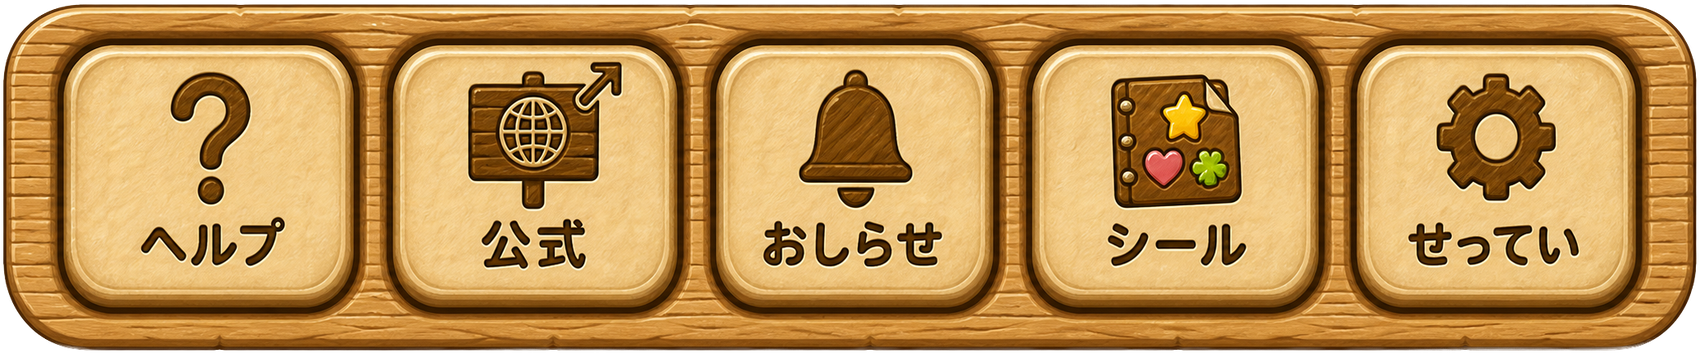
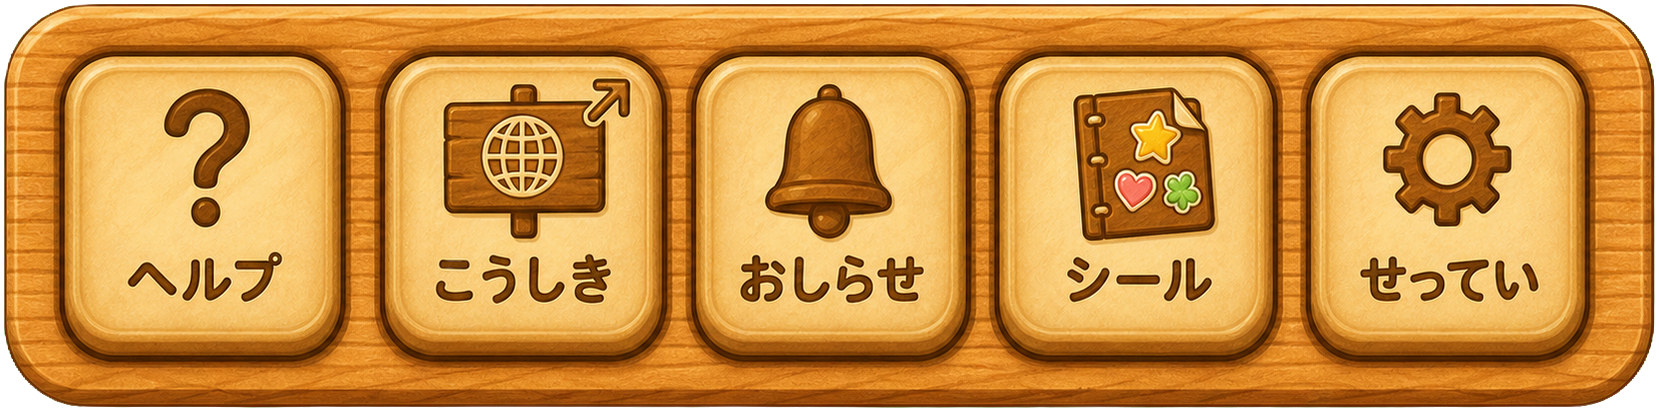
Apply official bottom nav alpha sprites

diff --git a/play.html b/play.html
@@ -811,7 +811,7 @@
        stay independent while the visuals read as one grouped control. */
     .bottom-nav {
       --nav-sprite-w: 520px;
-      --nav-sprite-h: calc(var(--nav-sprite-w) * 355 / 1700);
+      --nav-sprite-h: calc(var(--nav-sprite-w) * 412 / 1659);
       position: absolute;
       bottom: 18px;
       /* Offset by the canvas→safe-area gutter so the cluster sits inside
@@ -3043,7 +3043,7 @@
     // sw.js の CACHE_VERSION と揃える。Date.now() ベースだと iOS Safari で HTTP キャッシュが
     // 機能しなくなる (毎回 URL が変わる) ので、static な version を使う。デプロイ時に
     // CACHE_VERSION をバンプすれば自動でバスター値も変わり、SW 更新と同期する。
-    const PAGE_CACHE_VERSION = 1230;
+    const PAGE_CACHE_VERSION = 1231;
     const __bust = (url) => __isPreview ? `${url}${url.includes('?') ? '&' : '?'}_=v${PAGE_CACHE_VERSION}` : url;
 
     // Infinite-scroll loop: render the catalog 3× and silently teleport

diff --git a/sw.js b/sw.js
@@ -1,6 +1,7 @@
 // Service Worker for ポノのあそびば PWA
 // Network-first + version-based cache busting
 
+// v1231: Bottom nav uses the user-cleaned GPT Image 2 official-site alpha sprites and updated aspect ratio.
 // v1230: Daily gacha adds bubbles_v1 to the capsule opening moment.
 // v1229: Bottom nav swaps the top button to an official-site button using user-cleaned alpha sprites.
 // v1228: Daily gacha hides the close X, moves reveal actions to the top right, and opens the tray landing mask.
@@ -23,7 +24,7 @@
 // v1211: Daily gacha lever tuning synced to develop: smaller centered lever, four hard notched turns, staged zoom, boom/drop, and random split-capsule variants.
 
 // v1210: play.html にアプリ版限定のデイリーシールガチャを同期。APP_BUILD/開発モード時だけ表示し、レバー操作からシール付与まで行う。assets/ui/gacha/ に alpha 済み素材を追加。
-const CACHE_VERSION = 1230; // v1230: Daily gacha adds bubbles_v1 to the capsule opening moment.
+const CACHE_VERSION = 1231; // v1231: Bottom nav uses the user-cleaned GPT Image 2 official-site alpha sprites and updated aspect ratio.
 const CACHE_NAME = 'pono-v' + CACHE_VERSION;
 
 self.addEventListener('install', event => {

diff --git a/HANDOFF.md b/HANDOFF.md
@@ -17,6 +17,7 @@
 
 ## Active (進行中 / 未着手)
 
+- 2026-06-21 - [batch:768-bottom-nav-official-alpha-v2] DONE - Codex: user が `D:\ポノのおへや\UI` に入れた alpha 済み下ナビ候補4枚を確認し、公式アイコンの矢印が看板右上にある v2 系 `レイヤー 0_20260621-231532_001.png` を normal、`レイヤー 0_20260621-231430_001.png` を pressed として採用。`assets/ui/bottom_nav_group_5_normal.png` / `bottom_nav_group_5_pressed.png` は共通 `1659x412` RGBA に正規化し、`.bottom-nav` の高さ比率を `412/1659` に更新。`sw.js` / `PAGE_CACHE_VERSION=1231`。次回生成は、素材が明るすぎない限り chroma-key ではなく白バック指定にする。develop 同期済み。 (by Codex)
 - 2026-06-21 - [batch:767-gacha-open-se-bottom-nav-v2-raw] DONE - Codex: daily gacha のカプセル開封瞬間に `assets/sounds/se/bubbles_v1.mp3` を `capsuleOpen` SE として sparkle と重ねる実装を develop へ同期。`sw.js` / `PAGE_CACHE_VERSION=1230`。下ナビ全体の GPT Image 2 v2 raw は app worktree の `tmp/alpha_pending/766-bottom-nav-official-regenerate/bottom_nav_official_normal_raw_gpt_image2_v2_arrow_topright.png` / `bottom_nav_official_pressed_raw_gpt_image2_v2_arrow_topright.png` に保存済みで、alpha 抜き前のため assets 差し替えは未実施。 (by Codex)
 - 2026-06-21 - [batch:766-bottom-nav-official-alpha-implement] DONE - Codex: user が `D:\ポノのおへや\UI` に置いた alpha 済み公式サイト下ナビ画像2枚 (`レイヤー 0_20260621-203042_001.png` normal / `レイヤー 0_20260621-203110_001.png` pressed) を確認し、`assets/ui/bottom_nav_group_5_normal.png` (`1700x355`) / `assets/ui/bottom_nav_group_5_pressed.png` (`1700x354`) へ正規化して差し替え。`play.html` の2番目下ナビは `data-action="official"` / aria `公式サイト` に変更し、クリック先は従来通り `index.html`。`sw.js` / `PAGE_CACHE_VERSION=1229`。develop 同期済み。 (by Codex)
 - 2026-06-21 - [batch:765-daily-gacha-actions-official-raw] DONE - Codex: user 指摘「トップ/シール帳ボタンを右上小さめ、×なし、受け皿マスク下側も切らない、公式サイトボタンは既存下ナビに合わせて生成し直し」を develop へ同期。`play.html` は close X 非表示、開封後 action buttons を右上小型化、drop mask bottom clip を解除、`sw.js`/`PAGE_CACHE_VERSION=1228`。公式サイトボタン raw は app worktree の `tmp/alpha_pending/740-bottom-nav-official-site-redo/` に保存済み（白背景 normal/pressed が推奨、alpha抜き/切り抜き/実装は未実施）。検証: `git diff --check`、`node --check sw.js`、runtime inline script parse。 (by Codex)